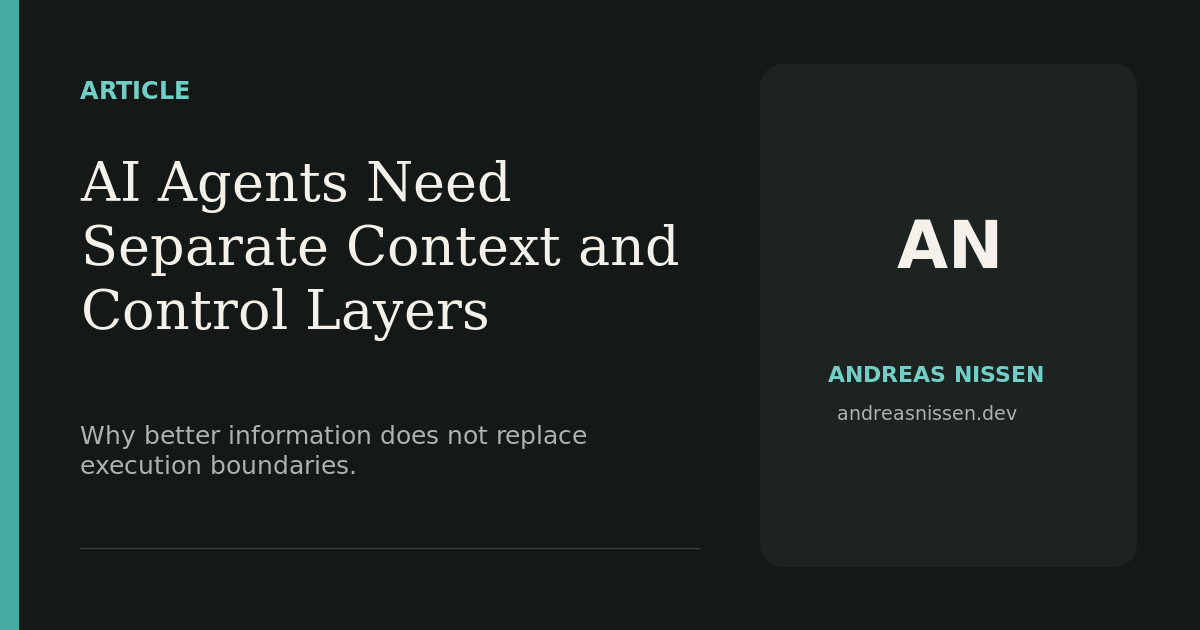
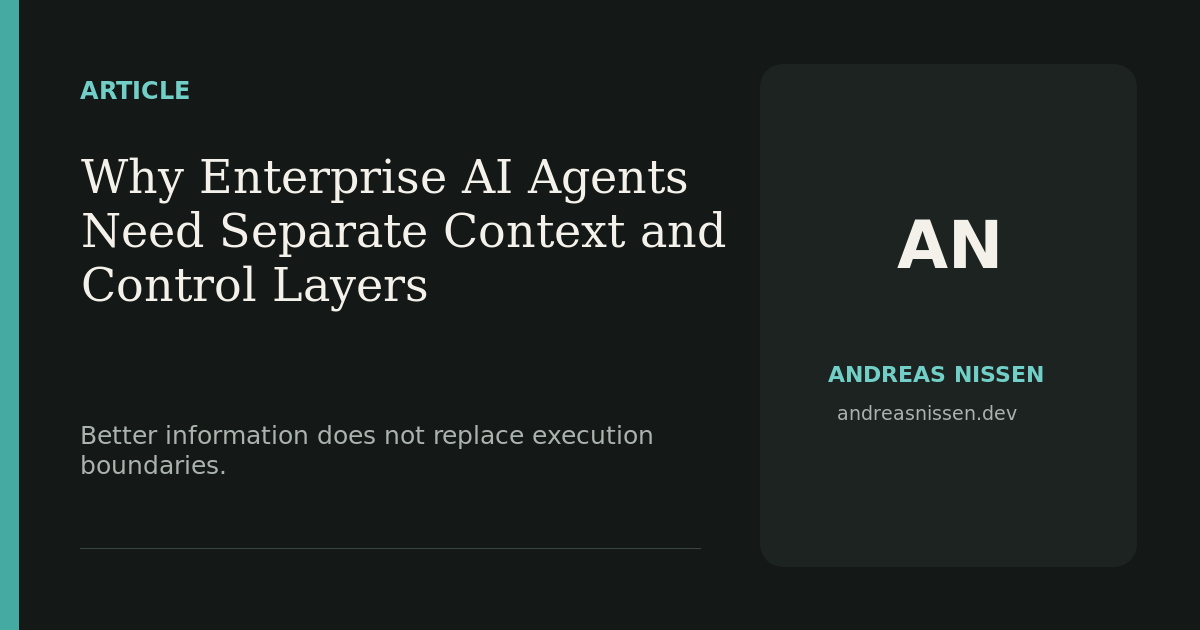
content: scope the context-control title

Changed region(s): [[0.0617, 0.2413, 0.6167, 0.5429], [0.0617, 0.6635, 0.555, 0.754]]

diff --git a/content/writing/context-and-control.md b/content/writing/context-and-control.md
@@ -1,5 +1,5 @@
 ---
-title: "AI Agents Need Separate Context and Control Layers"
+title: "Why Enterprise AI Agents Need Separate Context and Control Layers"
 date: 2026-08-30
 description: "An agent needs enough context to reason and enough control to act safely. Treating them as one system hides different failure modes."
 primaryTopic: "Agent architecture"
@@ -14,7 +14,7 @@ proofLinks:
   - label: "Review the 7DayFocus case study"
     url: "/projects/7dayfocus-ai-delivery-lab/"
 socialImage: "/images/social/context-and-control.png"
-socialImageAlt: "AI Agents Need Separate Context and Control Layers, an article by Andreas Nissen."
+socialImageAlt: "Why Enterprise AI Agents Need Separate Context and Control Layers, an article by Andreas Nissen."
 tags:
   - agent architecture
   - context

diff --git a/content/talks/reliable-agents-in-production.md b/content/talks/reliable-agents-in-production.md
@@ -45,4 +45,4 @@ The original learning materials are not published here. The same public-safe eng
 
 - [The Hard Part of Agentic AI Starts After the Demo](/writing/agentic-ai-after-the-demo/)
 - [Agent Reliability Lab](/projects/mistral-playground/)
-- [AI Agents Need Separate Context and Control Layers](/writing/context-and-control/)
+- [Why Enterprise AI Agents Need Separate Context and Control Layers](/writing/context-and-control/)
